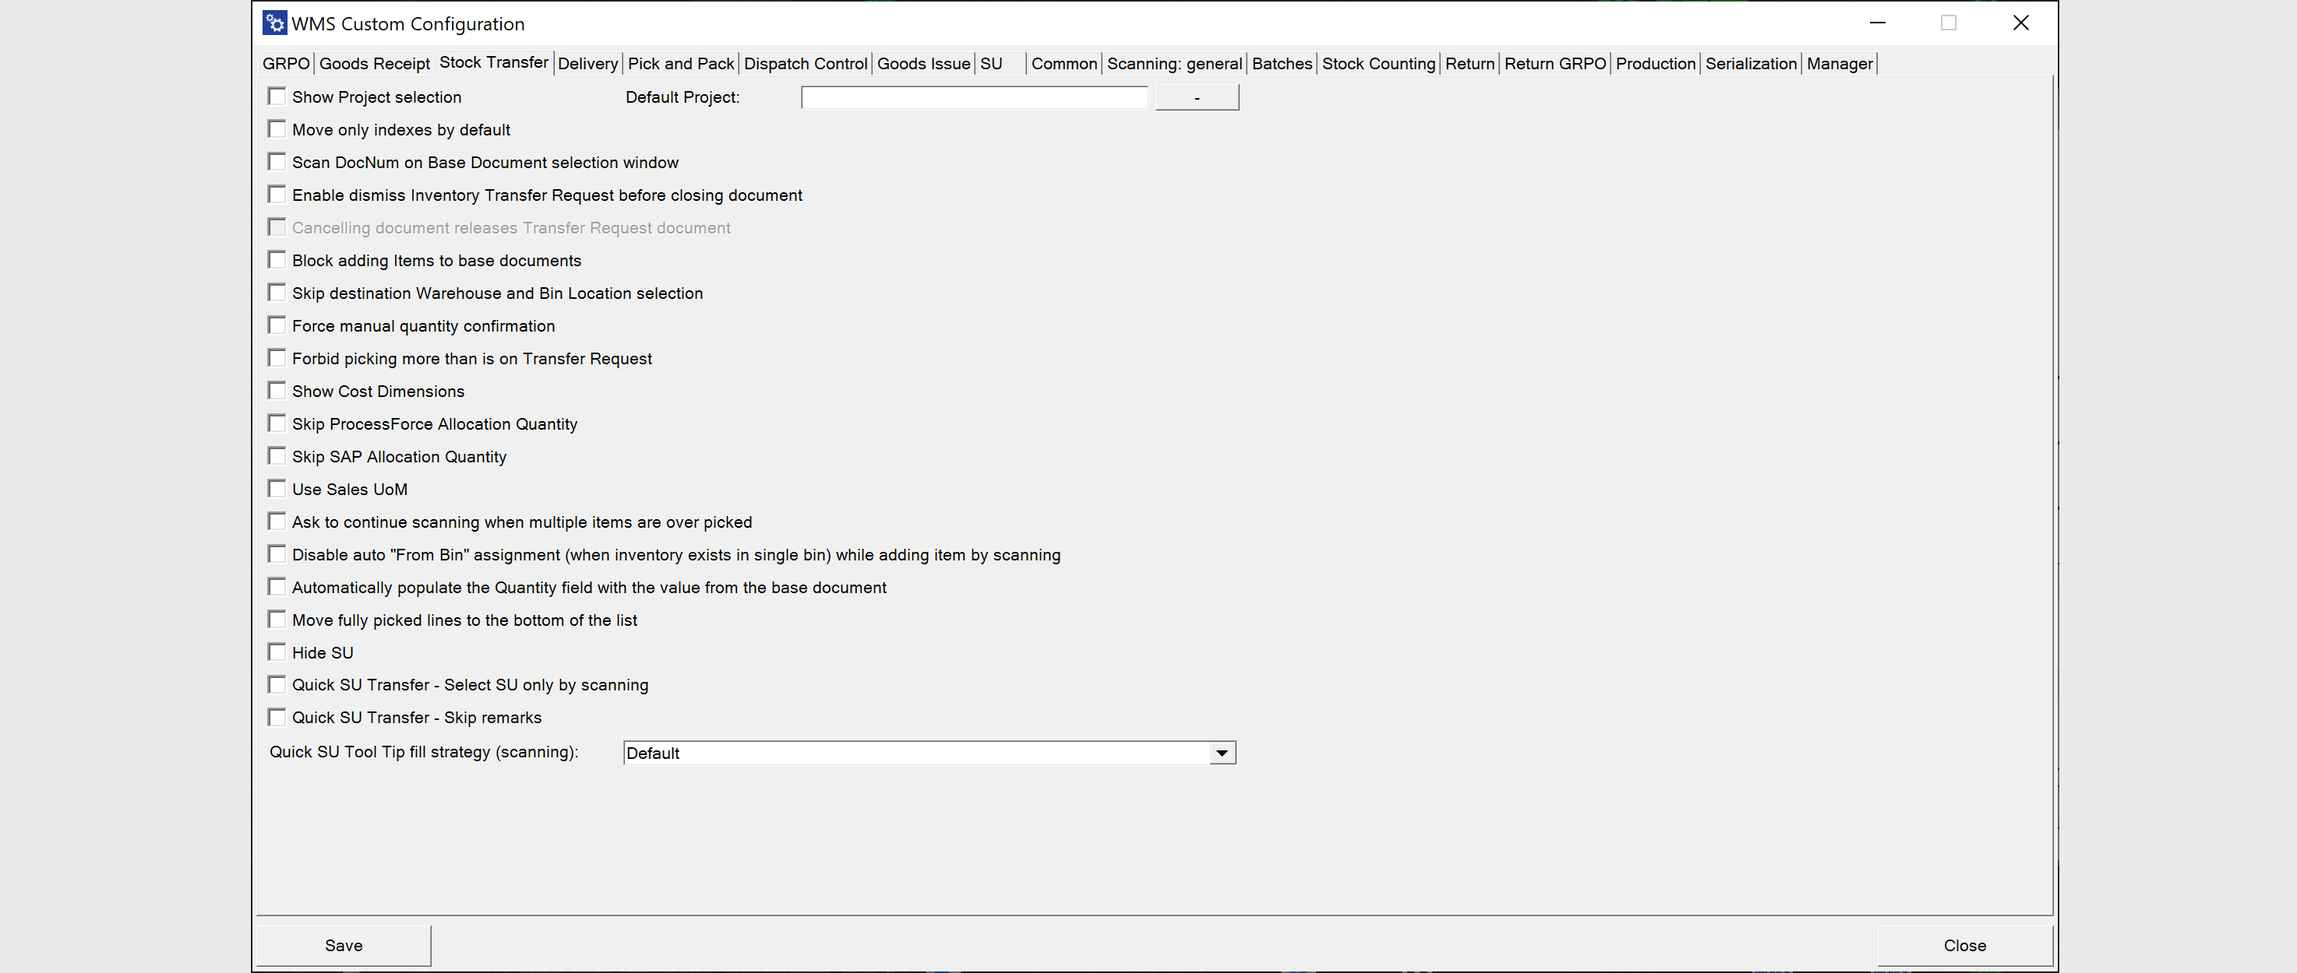
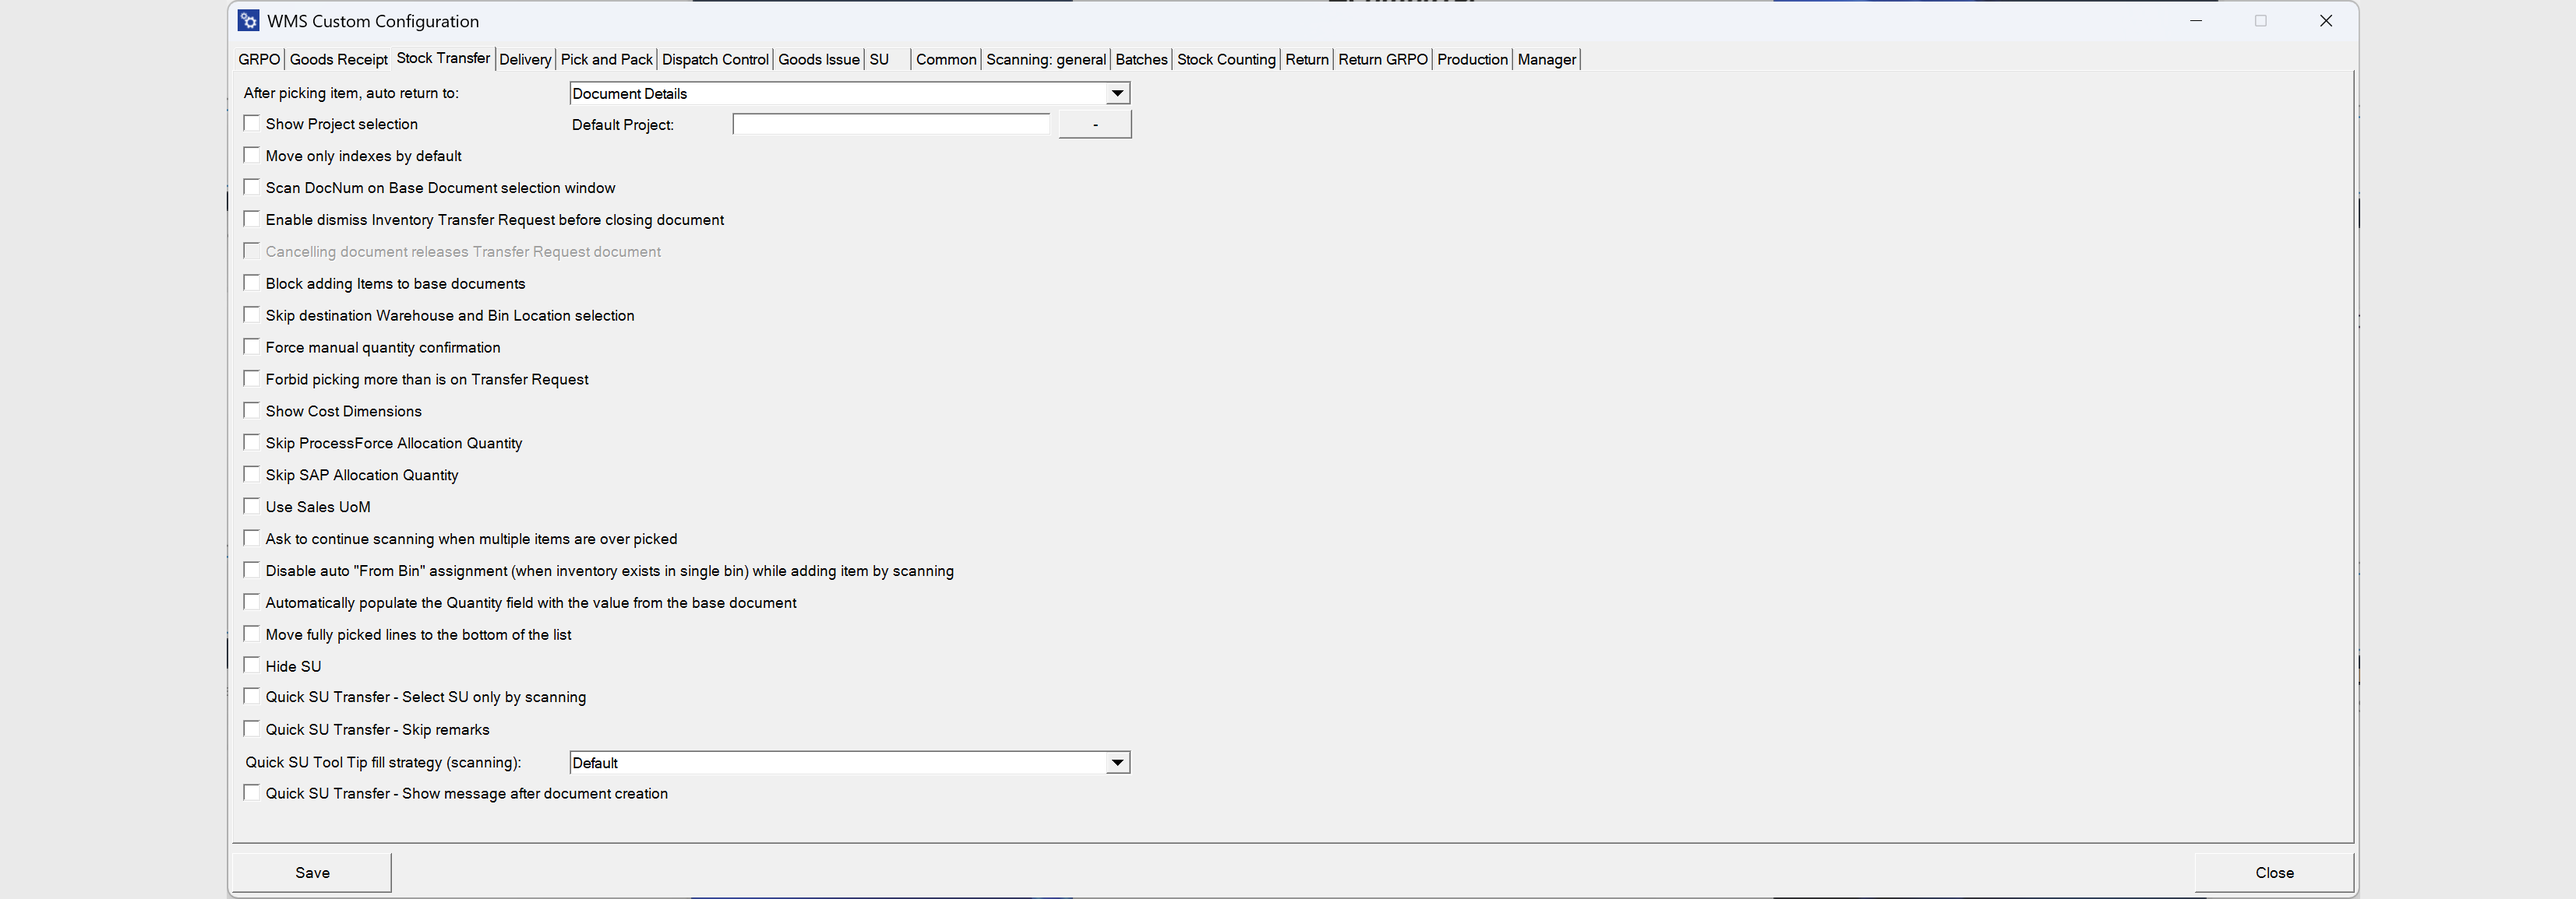
Update Stock Transfer documentation with configuration details and new options

diff --git a/docs/wms/administrator-guide/custom-configuration/custom-configuration-functions/stock-transfer.md b/docs/wms/administrator-guide/custom-configuration/custom-configuration-functions/stock-transfer.md
@@ -4,15 +4,22 @@ sidebar_position: 3
 
 # Stock Transfer
 
-The Stock Transfer module within SAP Business One offers comprehensive options for managing Inventory Transfer and stock movement between warehouses. This overview walks through key configuration options, changes, and customization capabilities, helping ensure seamless and efficient inventory handling.
+The **Stock Transfer** settings allow you to configure how CompuTec WMS handles Inventory Transfer and Inventory Transfer Request processes.
 
----
+You can use these settings to control document selection, quantity confirmation, warehouse and bin selection, Storage Unit (SU) transfers, and other Stock Transfer behavior.
 
 ![Stock Transfer](./media/stock-transfer/screenshot-01.png)
 
-## Configuration Options
+## Configuration options
 
-Below are the available settings and behaviors you can enable or disable in the Stock Transfer process:
+To configure Stock Transfer:
+
+1. Open **WMS Custom Configuration**.
+2. Go to the **Stock Transfer** tab.
+3. Configure the required options.
+4. Click **Save**.
+
+The following options are available:
 
 1. **Show Project selection**: Displays the Project Selection form before the Remarks form, ensuring the correct project is linked during document creation.  
 
@@ -104,7 +111,12 @@ Below are the available settings and behaviors you can enable or disable in the 
 
     ![Quick SU Tool Tip Fill strategy (scanning) options](./media/stock-transfer/screenshot-323.png)
 
-## Changes
+21. **Quick SU Transfer - Show message after document creation**: Displays a confirmation message after an Inventory Transfer document is successfully created using Quick SU Transfer. By default, this option is disabled.
+
+<details>
+<summary>**Legacy configuration reference**</summary>
+
+The following information applies to configurations migrated from **older versions of CompuTec WMS**. It is not required for a standard Stock Transfer configuration.
 
 In the updated Stock Transfer tab, some previous features have been removed or adjusted to streamline processes. Here’s a look at these adjustments and custom query options available for advanced users.
 
@@ -165,4 +177,4 @@ Fields marked according to the field layout in the Custom Query:
 
     ![Inventory Transfer](./media/stock-transfer/stock-transfer-01.webp)
 
----
+</details>
